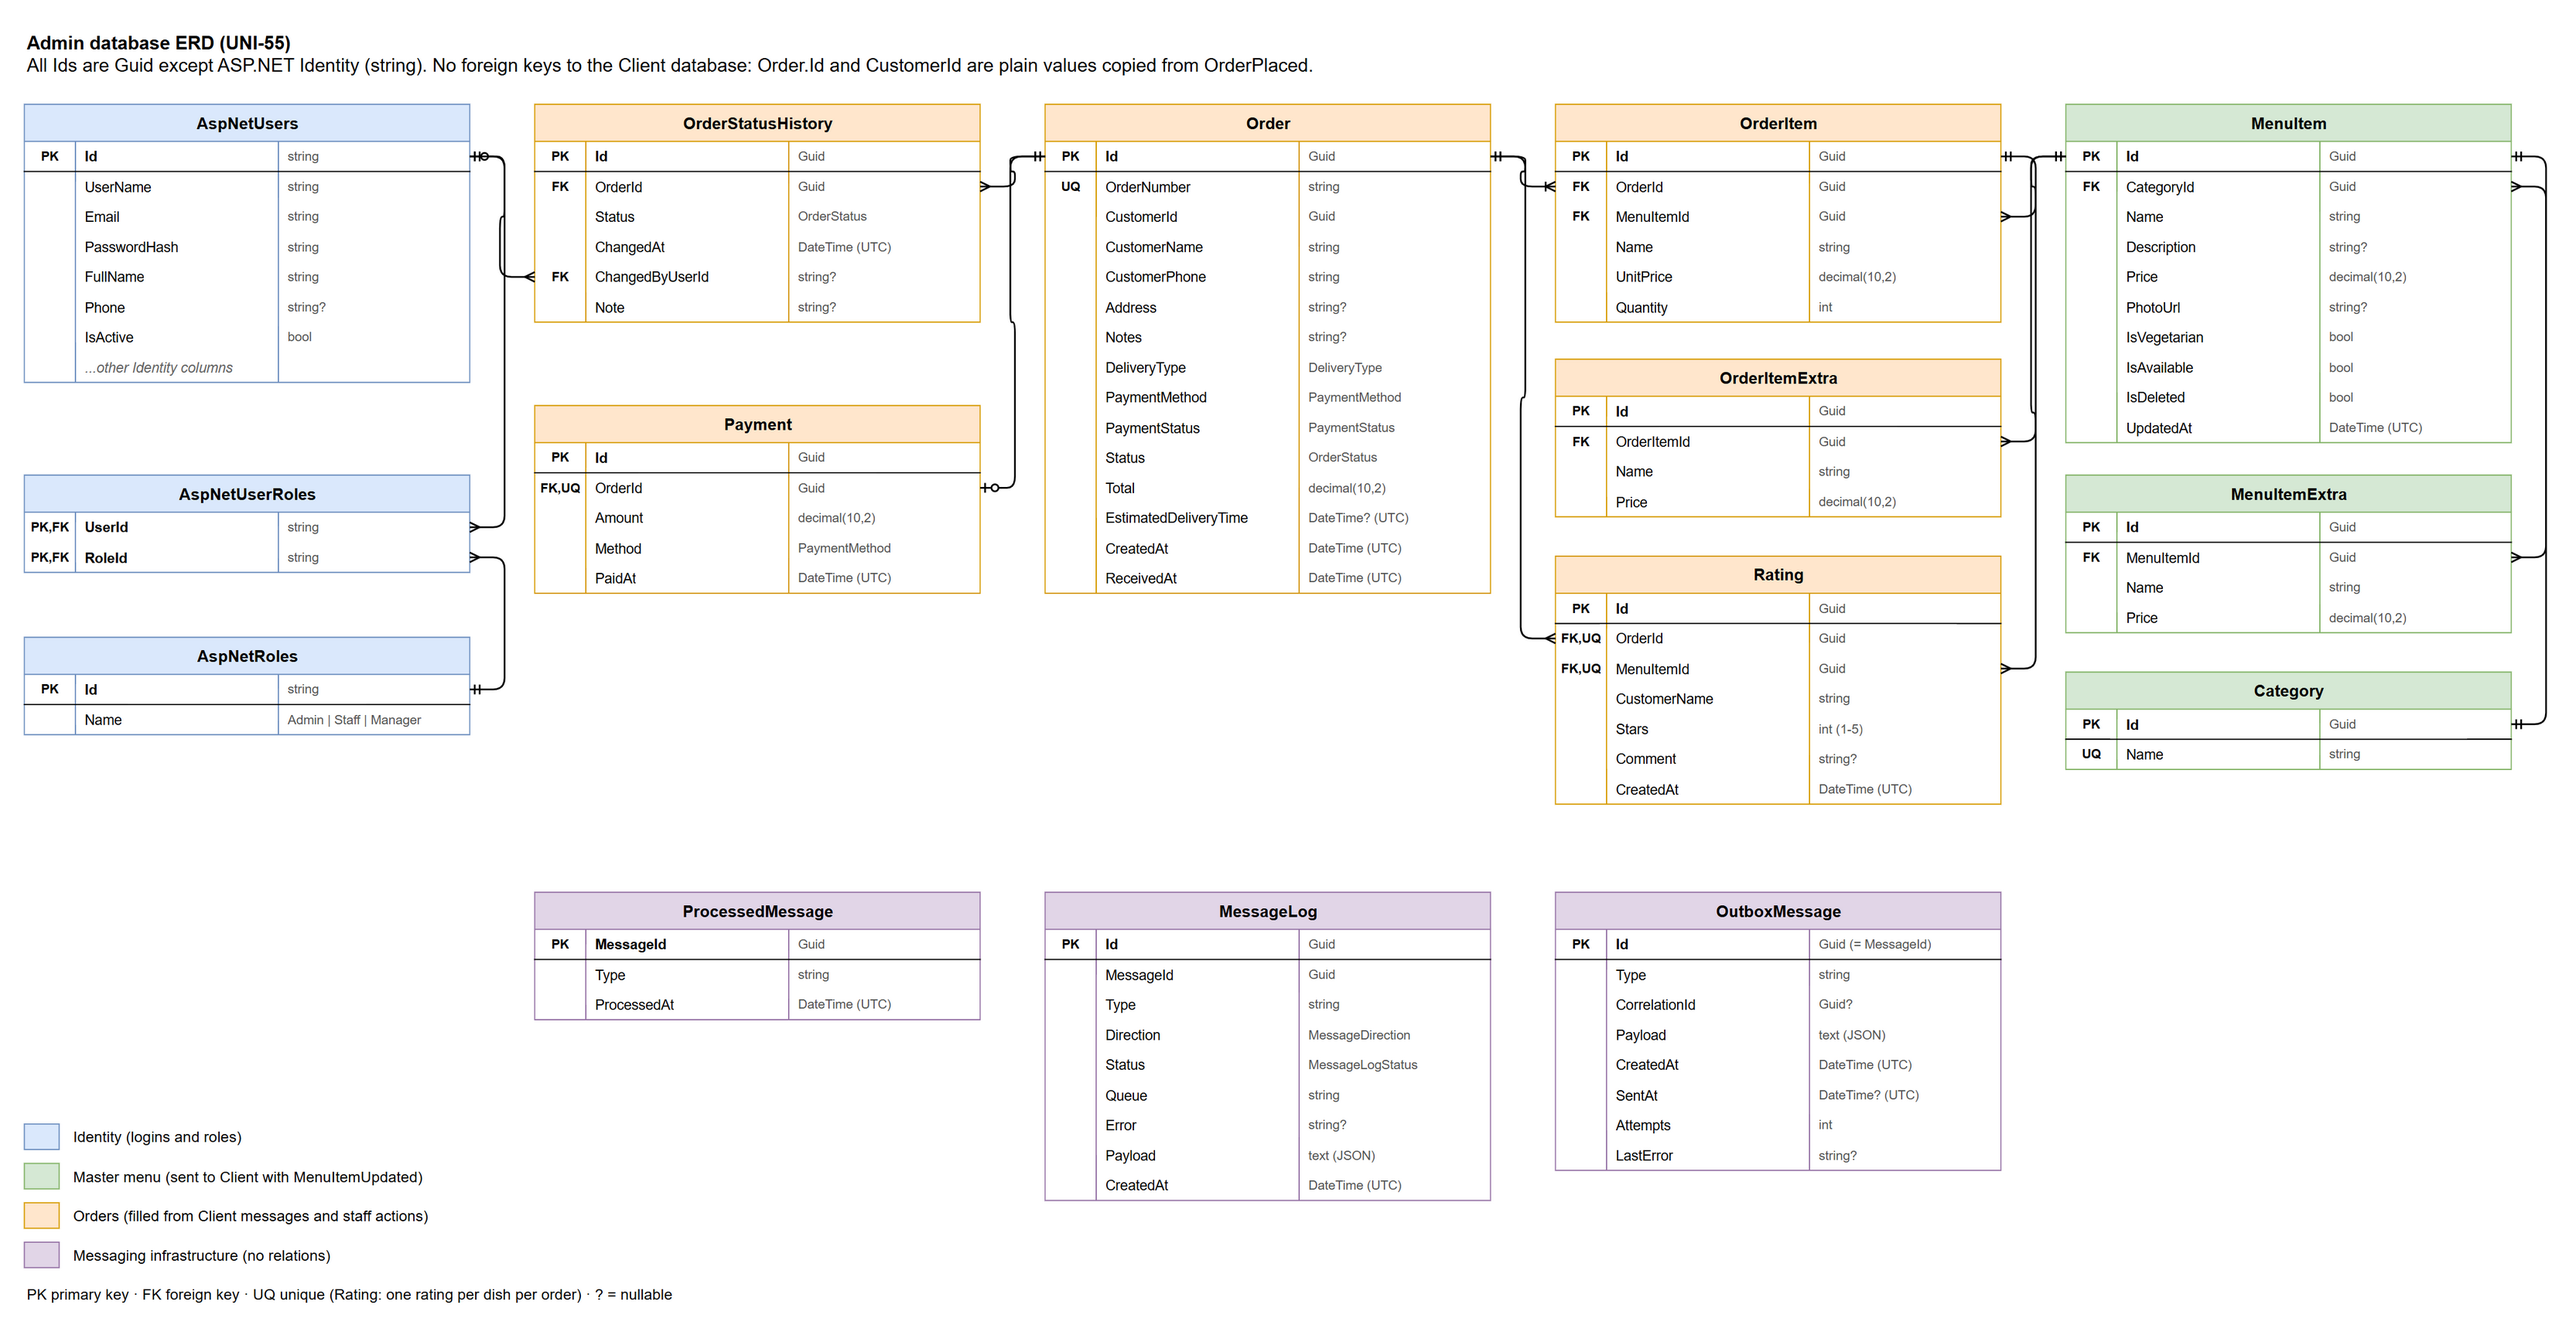
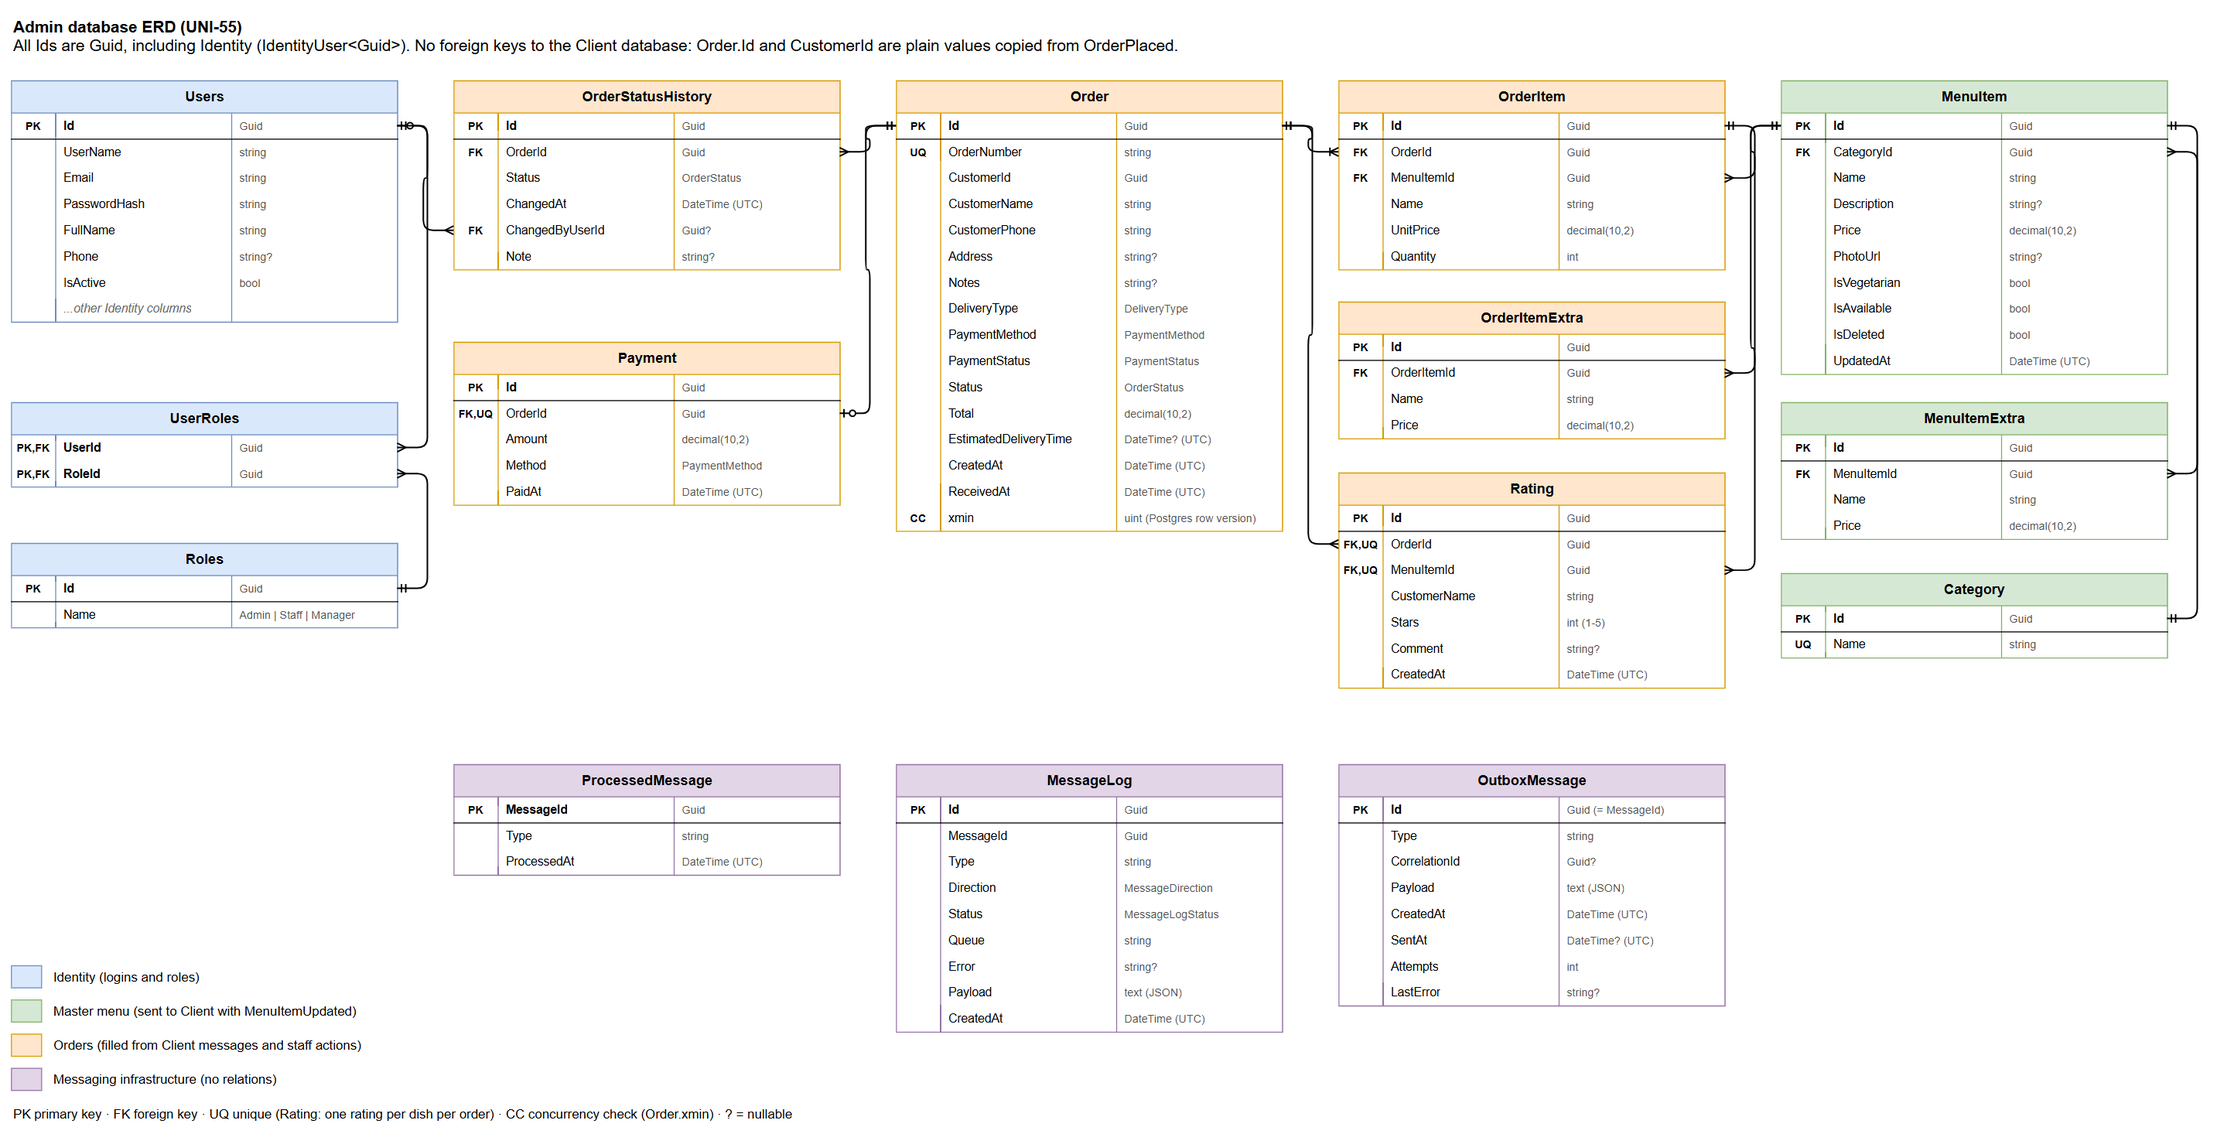
UNI-55: Guid Identity ids, renamed Identity tables and xmin concurrency on Order

diff --git a/docs/erd-admin.md b/docs/erd-admin.md
@@ -6,7 +6,9 @@
 
 ## Rules
 
-- **All Ids are `Guid`**, except ASP.NET Identity tables, which keep Identity's default `string` Id.
+- **All Ids are `Guid`, including Identity.** Users and roles use `IdentityUser<Guid>` and `IdentityRole<Guid>`, and the context is `IdentityDbContext<ApplicationUser, ApplicationRole, Guid>`.
+- **Identity tables drop the `AspNet` prefix:** `Users`, `Roles`, `UserRoles`, `UserClaims`, `UserLogins`, `UserTokens`, `RoleClaims` (renamed in `OnModelCreating`).
+- **`Order` uses optimistic concurrency.** PostgreSQL's built-in `xmin` row version is the concurrency token. If two changes to the same order are saved at the same time (staff accepting while `OrderCancelled` is processed, or two staff at once), the second save throws `DbUpdateConcurrencyException`, reloads the order and checks the DEC-001 rules again.
 - **No foreign keys to the Client database.** `Order.Id` is the same Guid the Client created, and `CustomerId` is a plain value copied from `OrderPlaced`.
 - **Money** is `decimal(10,2)`. **Times** are UTC.
 - **Enums** (`OrderStatus`, `PaymentStatus`, `DeliveryType`, `PaymentMethod`) are stored as strings, the same as in the messages.
@@ -16,12 +18,12 @@
 
 | Group | Table | What it stores |
 |---|---|---|
-| Identity | `AspNetUsers` | Staff logins. Extended with `FullName`, `Phone`, `IsActive`. |
-| Identity | `AspNetRoles`, `AspNetUserRoles` | Roles `Admin`, `Staff`, `Manager` and who has them |
+| Identity | `Users` | Staff logins. Extended with `FullName`, `Phone`, `IsActive`. |
+| Identity | `Roles`, `UserRoles` | Roles `Admin`, `Staff`, `Manager` and who has them |
 | Menu | `Category` | Menu categories (Name is unique) |
 | Menu | `MenuItem` | The master menu. Same columns as the Client copy. |
 | Menu | `MenuItemExtra` | Extras a dish can have (cheese, bacon, ...) |
-| Orders | `Order` | One row per order, copied from `OrderPlaced`, then updated by staff |
+| Orders | `Order` | One row per order, copied from `OrderPlaced`, then updated by staff. `xmin` protects it from two changes at once. |
 | Orders | `OrderItem`, `OrderItemExtra` | Dishes and extras in the order, with name and price **at the time of ordering** |
 | Orders | `OrderStatusHistory` | Every status change: who, when and why. `ChangedByUserId` is `null` when the customer cancelled. |
 | Orders | `Payment` | Online payment from `PaymentCompleted`. At most one per order. |
@@ -126,7 +128,7 @@ The message is saved in `OutboxMessage` in the same transaction as the status ch
 
 ## Points to review with Maria
 
-1. Ids are Guids everywhere, and Identity stays `string`. The Client ERD (UNI-54) should match for `MenuItem`, `MenuItemExtra` and `Category`.
+1. Ids are Guids everywhere, including Identity (`IdentityUser<Guid>`). The Client ERD (UNI-54) must match: its customers are `IdentityUser<Guid>` too, so `customerId` in `OrderPlaced` is a real Guid.
 2. `OrderItem.MenuItemId` and `Rating.MenuItemId` are real foreign keys to `MenuItem` (same database), which is why menu items are soft-deleted.
 3. A rejection reason or cancel reason is stored in `OrderStatusHistory.Note`, not on `Order`.
 4. `Payment.OrderId` is unique: one online payment per order.
